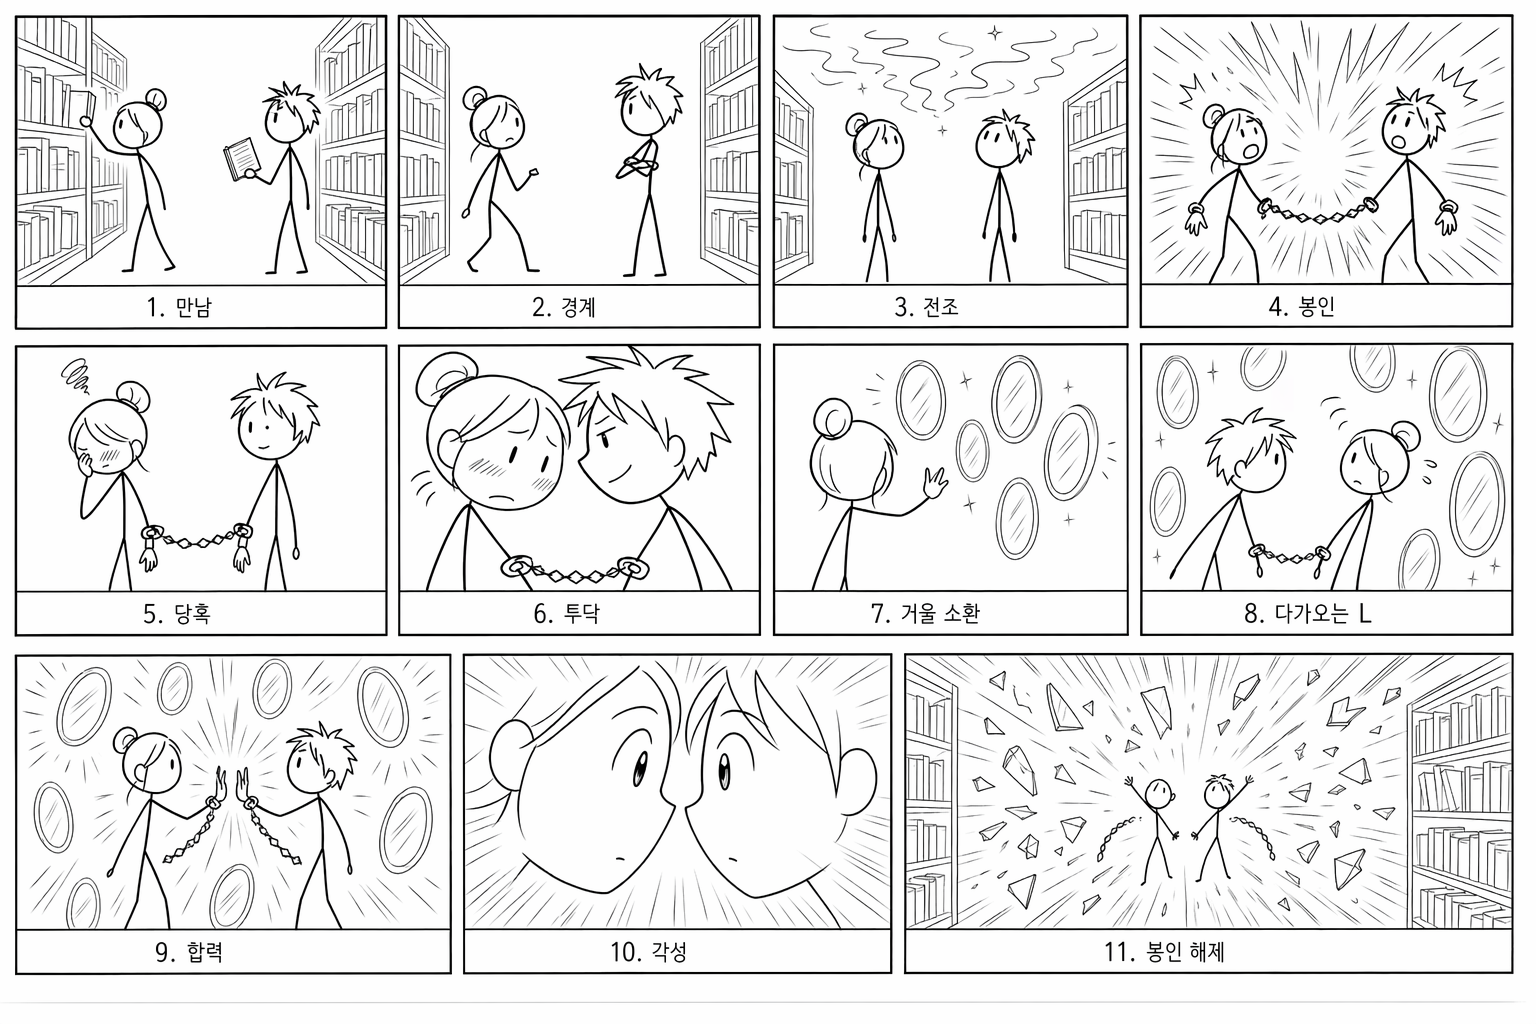
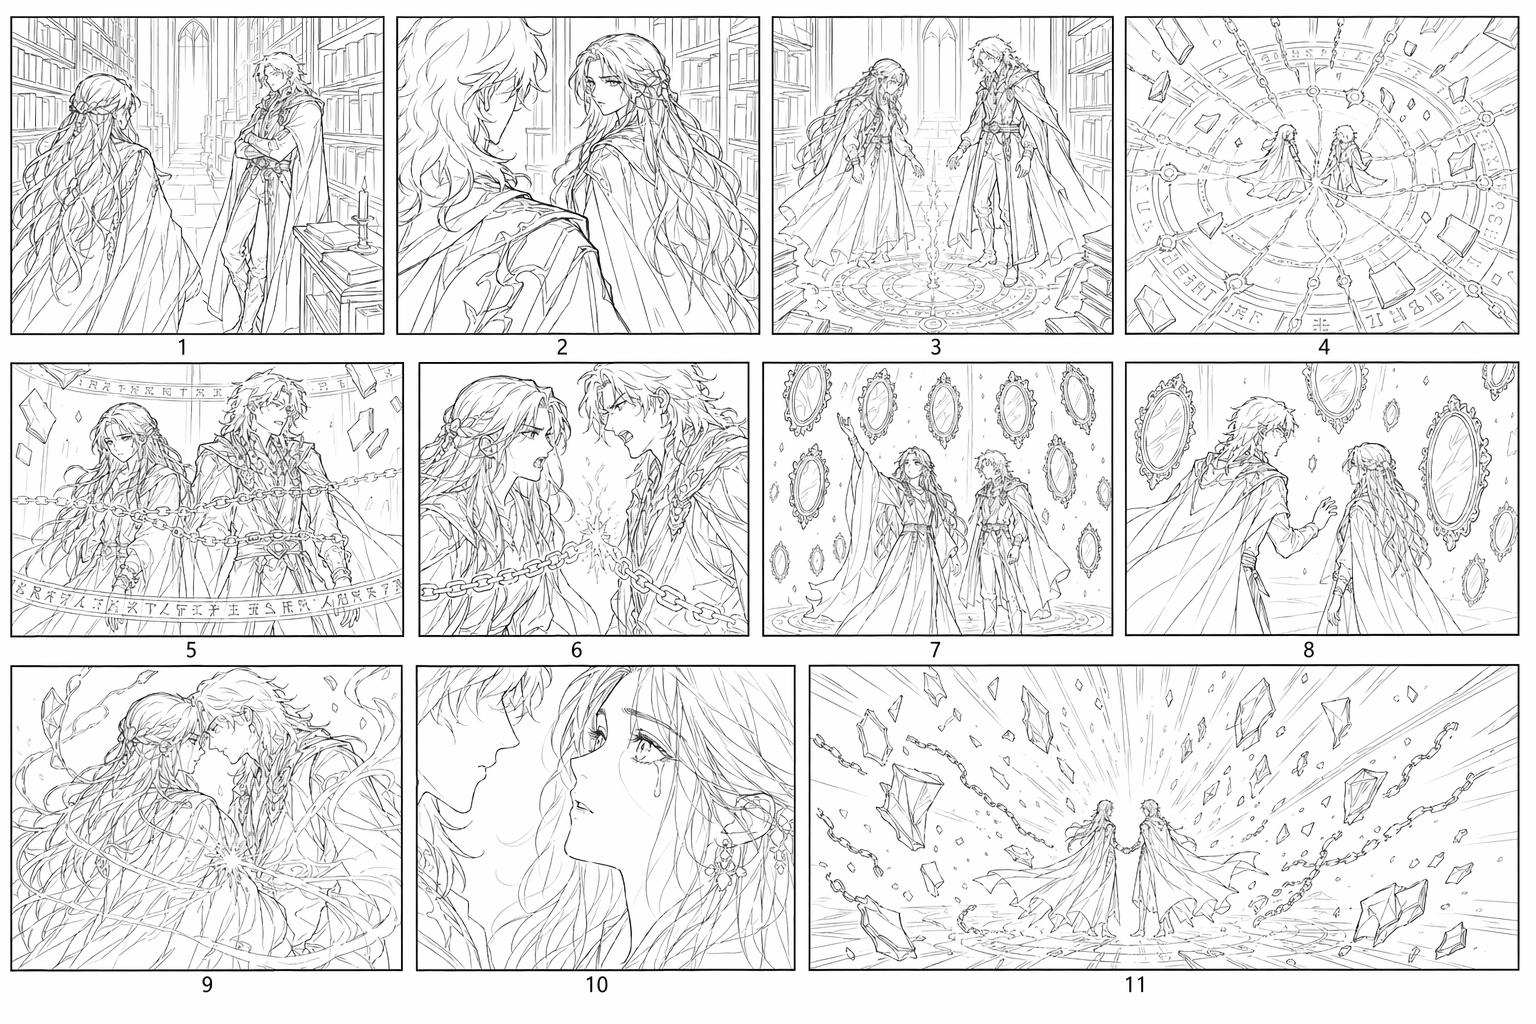
replace stickman with line-art conti, move to pipeline section, tighten closing
- 스틱맨 콘티를 실제 컷 기반 선화 콘티로 교체
- 이미지 위치를 스토리보드 상단에서 파이프라인 섹션(3-4단계 후)으로 이동
  → "다음에 이 단계를 먼저 거친다"는 맥락에 맞게 배치
- 마지막 섹션 7단락 → 4단락으로 압축, 핵심 인사이트 유지

diff --git a/content/posts/library-storyboard.md b/content/posts/library-storyboard.md
@@ -51,9 +51,6 @@ cover:
 
 ## 스토리보드
 
-![11컷 스틱맨 콘티](/images/library-storyboard/00-stickman-overview.png)
-*전체 11컷의 흐름을 스틱맨 콘티로 정리한 것. 만남 → 봉인 → 갈등 → 거울 소환 → 합력 → 각성 → 봉인 해제.*
-
 아래는 각 컷의 완성 이미지, 씬 설명, 대사, 그리고 접힌 블록 안에 실제 프롬프트를 담았다. 캐릭터 설정 원화를 레퍼런스로 첨부하고, 1024×1536 (9:16) 세로 비율, 고품질로 생성했다.
 
 ### 컷 1 — 만남
@@ -375,6 +372,9 @@ it in every direction. Some mirrors crack from the intensity.
 3. gpt-image-2로 스틱맨 수준의 레이아웃을 생성. 구도와 배치만 잡는다
 4. 스틱맨 콘티를 이어 붙여 러프 영상으로 만들고, 타이밍과 구도를 검증
 
+![11컷 선화 콘티](/images/library-storyboard/00-stickman-overview.png)
+*위 11컷의 구도를 선화 콘티로 변환한 예시. 다음에는 이 단계를 먼저 거친 뒤 풀 퀄리티로 올린다.*
+
 **소재 제작** — 확정된 구조 위에서만 작업한다
 
 5. Grok Voice 등으로 대사 음성을 생성하여 타이밍 기준점 확보
@@ -390,21 +390,13 @@ it in every direction. Some mirrors crack from the intensity.
 
 ## 이 시도에 대해
 
-이전에는 시각적 결정을 내릴 수 없었다. 금서 구역의 빛은 파란색이어야 하는가 틸색이어야 하는가? 봉인이 발동할 때 두 사람의 거리는 얼마나 가까운가? 시놉시스에는 "봉인이 풀리고 빛이 쏟아지는 순간"이라고만 적혀 있을 뿐이다.
+시놉시스에는 "봉인이 풀리고 빛이 쏟아지는 순간"이라고만 적혀 있다. 이미지가 생기면 결정을 내릴 수 있다. "이 빛은 너무 차갑다", "이 거리는 내가 의도한 것보다 가깝다", "이 표정은 내가 생각한 것보다 낫다." 그 판단의 루프가 돌아가기 시작한다는 것 자체가 이번 시도의 핵심이다. 11컷의 연속성은 불완전하지만, 시각적 결정을 반복적으로 내릴 수 있는 루프가 생겼다.
 
-이미지가 생기면 결정을 내릴 수 있다. "이 빛은 너무 차갑다", "이 거리는 내가 의도한 것보다 가깝다", "이 표정은 내가 생각한 것보다 낫다." 그 판단의 루프 — 만들고, 보고, 고치는 — 가 돌아가기 시작한다는 것 자체가 핵심이다.
+이 무상태 병목은 이미지 생성에만 국한된 문제가 아니다. 영상 생성 AI도 같은 벽에 부딪히고 있다. Sora, Veo, Kling 같은 양방향 비디오 모델은 이미지 생성의 무상태성이 시간축으로 확장된 것이다 — 과거·현재·미래를 고정된 프롬프트로 동시에 생성한다[^3]. 반면 월드 모델은 각 상태를 이전 상태와 행동으로부터 인과적으로 예측한다[^3].
 
-11컷의 완성도는 높지 않다. 컷 사이의 연속성은 불완전하고, 모델이 매번 잊어버리는 소품 위치를 사람이 일일이 추적해야 했고, 되돌아가서 고칠 수도 없었다. 하지만 "시각적 결정을 반복적으로 내릴 수 있는 루프"가 존재하게 되었다는 것이 핵심이다.
+독립적으로 연구되는 세 월드 모델 프로젝트 — MultiGen[^4], Waypoint[^5], Matrix-Game 3.0[^6] — 에서 흥미로운 공통점이 보인다. 세 논문을 비교 독해한 내 관찰인데, 접근법은 달라도 전제가 같다: **"컨텍스트 윈도우 너머에 지속되는 명시적 상태"가 장기 롤아웃의 공간 일관성에 필수라는 것**. MultiGen은 레벨 맵과 인물 포즈를 모델 바깥의 메모리 모듈에 유지하여, 프레임 히스토리에서 레이아웃을 재추론할 필요를 없앴다[^4].
 
-이 경험에서 발견한 무상태 병목은 이미지 생성에만 국한된 문제가 아니다. 영상 생성 AI도 같은 벽에 부딪히고 있고, 그 해법이 이미 연구되고 있다.
-
-Sora, Veo, Kling 같은 양방향 비디오 모델은 과거·현재·미래를 고정된 프롬프트로 동시에 생성한다[^3]. 이미지 생성의 무상태성이 시간축으로 확장된 것이다. 반면 월드 모델은 각 상태를 이전 상태와 행동으로부터 인과적으로 예측하는 자기회귀 모델이다[^3]. 접근이 다르다.
-
-흥미로운 건, 독립적으로 연구되는 세 월드 모델 프로젝트 — MultiGen[^4], Waypoint[^5], Matrix-Game 3.0[^6] — 이 같은 방향으로 수렴하고 있다는 점이다. 세 논문을 비교 독해한 내 관찰인데, 접근법은 다르지만 공통 전제가 있다: **"컨텍스트 윈도우 너머에 지속되는 명시적 상태"가 장기 롤아웃의 공간 일관성에 필수라는 것**. MultiGen은 레벨 맵과 인물 포즈를 모델 바깥의 메모리 모듈에 유지하고, 프레임 히스토리에서 레이아웃을 재추론할 필요를 없앴다[^4]. 프레임 히스토리만으로 상태를 유지하려 하면, 긴 롤아웃 후 레이아웃 단서가 버퍼 밖으로 밀려나 모델이 구조를 환각한다[^4].
-
-이번 스토리보드에서 겪은 일이 정확히 그것이다. 컷 7을 만들 때 컷 5의 사슬 위치를 기억하는 건 내가 해야 했다. 모델에게 컷 5는 존재하지 않으니까. 월드 모델 연구가 이 문제를 "프레임 히스토리 바깥의 명시적 상태"로 풀고 있다면, 이미지 스토리보드에도 같은 원리가 적용될 수 있을 것이다. 위에서 제안한 파이프라인의 2단계 — "직전 컷에서 유지해야 할 상태를 명시적으로 기록" — 가 사실상 이 외부 상태 레이어의 수작업 버전이다.
-
-AI 창작 도구의 다음 도약은 개별 생성물의 품질이 아니라, 생성물 사이의 상태를 관리하는 레이어에서 일어날 거라고 생각한다.
+이번 스토리보드에서 겪은 일이 정확히 그것이다. 컷 7을 만들 때 컷 5의 사슬 위치를 기억하는 건 내가 해야 했다. 위에서 제안한 파이프라인의 2단계 — "직전 컷에서 유지해야 할 상태를 명시적으로 기록" — 가 사실상 이 외부 상태 레이어의 수작업 버전이다. AI 창작 도구의 다음 도약은 개별 생성물의 품질이 아니라, 생성물 사이의 상태를 관리하는 레이어에서 일어날 거라고 생각한다.
 
 [^1]: Lvmin Zhang, Anyi Rao, Maneesh Agrawala, "Adding Conditional Control to Text-to-Image Diffusion Models" — arXiv:2302.05543, 2023. 포즈, 깊이 맵, 엣지 등 조건 입력을 통해 이미지 생성을 제어하는 프레임워크.
 [^2]: Hu Ye et al., "IP-Adapter: Text Compatible Image Prompt Adapter for Text-to-Image Diffusion Models" — arXiv:2308.06721, 2023. 이미지 프롬프트를 통해 캐릭터 정체성을 유지하는 어댑터.
